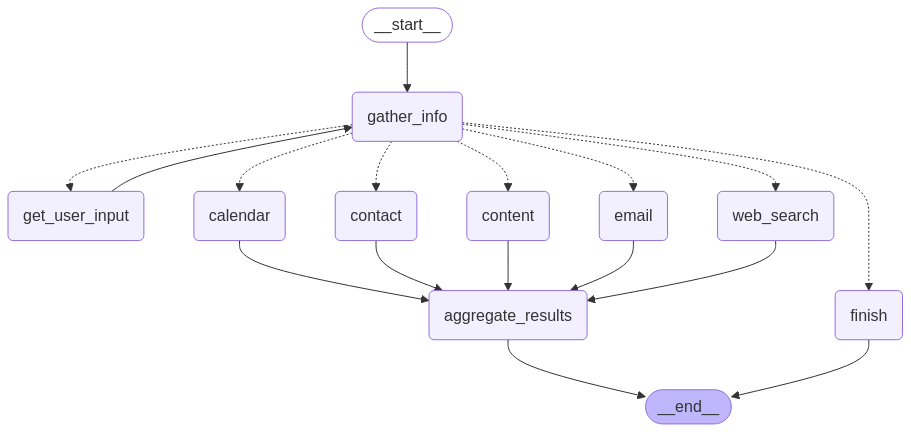
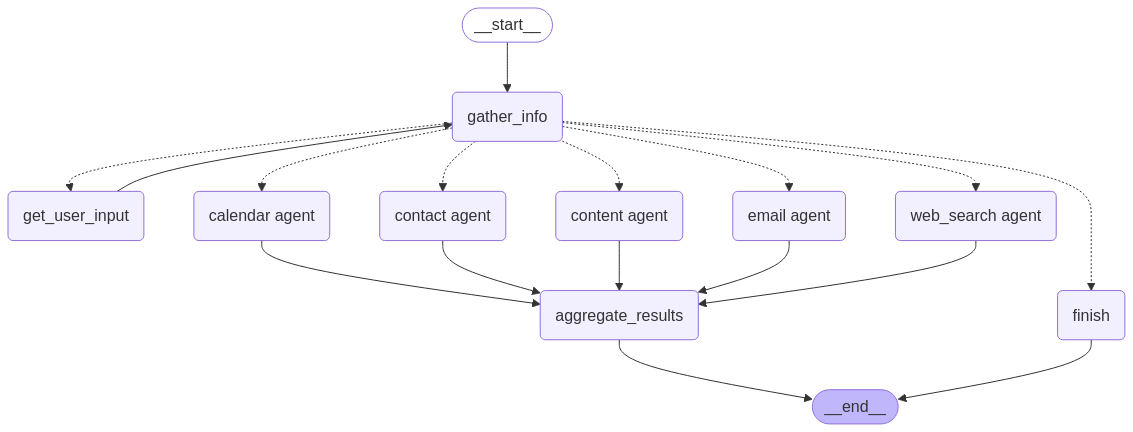
graph test run & node name change

diff --git a/core/graph.py b/core/graph.py
@@ -31,7 +31,7 @@ async def gather_info(state: JarvisState, writer=None) -> Dict:
         return {
             "intent": ["send_email"],  
             "entities": {"recipient": "alice@example.com"},
-            "actions": ["email"],
+            "actions": ["email agent"],
             "needs_more_info": True  # custom marker
         }
 
@@ -205,11 +205,11 @@ def build_jarvis_graph():
     graph.add_node("get_user_input", get_user_input)
 
     # Agent nodes
-    graph.add_node("email", run_email)
-    graph.add_node("calendar", run_calendar)
-    graph.add_node("contact", run_contact)
-    graph.add_node("web_search", run_web_search)
-    graph.add_node("content", run_content)
+    graph.add_node("email agent", run_email)
+    graph.add_node("calendar agent", run_calendar)
+    graph.add_node("contact agent", run_contact)
+    graph.add_node("web_search agent", run_web_search)
+    graph.add_node("content agent", run_content)
 
     # Aggregation + finish nodes
     graph.add_node("aggregate_results", aggregate_results)
@@ -225,7 +225,7 @@ def build_jarvis_graph():
         route_user_intent,
         [
             "get_user_input",   # user input loop
-            "email", "calendar", "contact", "web_search", "content",  # parallel agents
+            "email agent", "calendar agent", "contact agent", "web_search agent", "content agent",  # parallel agents
             "finish"
         ]
     )
@@ -252,8 +252,8 @@ def build_jarvis_graph():
 # Export the compiled graph
 jarvis_graph = build_jarvis_graph()
 
-# Plotting teh jarvis graph
+"""# Plotting teh jarvis graph
 png_bytes = jarvis_graph.get_graph().draw_mermaid_png()
 
 with open('jarvis_agent.png', 'wb') as f:
-    f.write(png_bytes)
+    f.write(png_bytes)"""

diff --git a/core/test_run.py b/core/test_run.py
@@ -1,0 +1,13 @@
+# test_run.py
+import asyncio
+from graph import jarvis_graph
+
+async def main():
+    state = {
+        "user_input": "Remind Alice about the meeting tomorrow.",
+        "messages": [],
+    }
+    result = await jarvis_graph.ainvoke(state)
+    print(result)
+
+asyncio.run(main())
